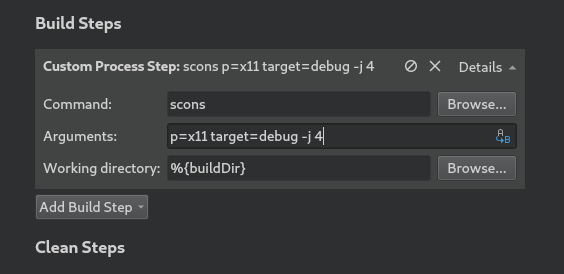
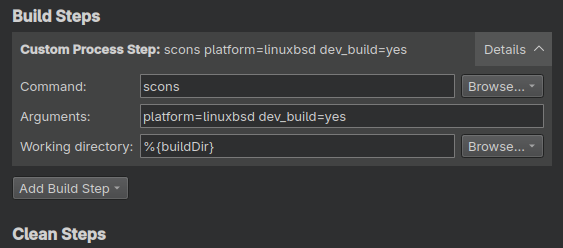
Updated QtCreator configuration guide

diff --git a/engine_details/development/configuring_an_ide/qt_creator.rst b/engine_details/development/configuring_an_ide/qt_creator.rst
@@ -92,21 +92,16 @@ Code style configuration
 ------------------------
 
 Developers must follow the project's `code style <https://contributing.godotengine.org/en/latest/engine/guidelines/code_style.html>`__
-and the IDE should help them follow it. By default, Qt Creator uses spaces
-for indentation which doesn't match the Godot code style guidelines. You can
-change this behavior by changing the **Code Style** in **Tools > Options > C++**.
+and the IDE should help them follow it.
+
+- Open **Preferences > C++ > Code Style**.
+- Set the **Formatting mode** to **Full formatting** to instruct Qt Creator to use the ``.clang-format`` file supplied in Godot's root folder:
 
 .. figure:: img/qtcreator-options-cpp.png
    :figclass: figure-w480
    :align: center
 
-Click on **Edit** to change the current settings, then click on
-**Copy Built-in Code Style** button to set a new code style. Set a name for it
-(e.g. Godot) and change the Tab policy to be **Tabs Only**.
-
-.. figure:: img/qtcreator-edit-codestyle.png
-   :figclass: figure-w480
-   :align: center
+- Specify when you want ``clang-format`` to run (either while typing or when you saving the file). It is recommended to enable formatting on save at least.
 
 If you run into any issues, ask for help in one of
 `Godot's community channels <https://godotengine.org/community>`__.
